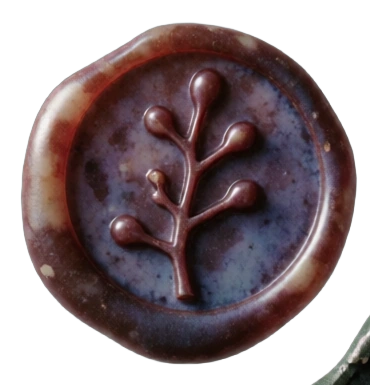
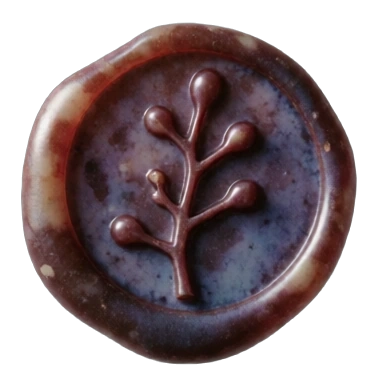
Remove neighbouring seal fragments from the red wax seal

Changed region(s): [[0.8324, 0.8104, 1.0, 1.0]]

diff --git a/index.html b/index.html
@@ -189,7 +189,7 @@
 </div>
 <div class="progress-artefact wide"><img width="895" height="194" alt="Five mineral progress markers" decoding="async" loading="lazy" src="materials/progress.webp"/></div><figure class="rainbow-wide wide"><img width="954" height="311" alt="Rainbow over a wooded river" decoding="async" loading="lazy" src="materials/landscape.webp"/></figure>
 </div>
-<div class="welcome-form-composition"><figure class="welcome-framed-angels"><img class="framed-art-image" alt="Angelic figures exchanging floating tarot cards" src="/assets/images/oct22/angels-with-cards.webp" width="1024" height="1024" loading="lazy"/><img class="physical-frame" alt="" src="/assets/images/oct22/botanical-frame.webp" width="625" height="610" loading="lazy"/></figure><figure class="welcome-sealed-cards"><img class="card-cluster" alt="Blank handmade cards with a brass clip" src="/assets/images/oct22/card-cluster.webp" width="406" height="481" loading="lazy"/><img class="seal-centre" alt="Red botanical wax seal" src="/assets/images/oct22/seal-red.webp" width="370" height="385" loading="lazy"/><img class="seal-side" alt="Gold and blue botanical seal" src="/assets/images/oct22/seal-gold.webp" width="365" height="365" loading="lazy"/></figure></div>
+<div class="welcome-form-composition"><figure class="welcome-framed-angels"><img class="framed-art-image" alt="Angelic figures exchanging floating tarot cards" src="/assets/images/oct22/angels-with-cards.webp" width="1024" height="1024" loading="lazy"/><img class="physical-frame" alt="" src="/assets/images/oct22/botanical-frame.webp" width="625" height="610" loading="lazy"/></figure><figure class="welcome-sealed-cards"><img class="card-cluster" alt="Blank handmade cards with a brass clip" src="/assets/images/oct22/card-cluster.webp" width="406" height="481" loading="lazy"/><img class="seal-centre" alt="Red botanical wax seal" src="/assets/images/oct22/seal-red.webp?v=clean2" width="370" height="385" loading="lazy"/><img class="seal-side" alt="Gold and blue botanical seal" src="/assets/images/oct22/seal-gold.webp" width="365" height="365" loading="lazy"/></figure></div>
 <div class="form-panel form-disclosure"><div class="form-body" id="arkhive-form">
 <div id="tally-mount"><iframe data-tally-src="https://tally.so/embed/GxWlQO?alignLeft=1&amp;hideTitle=1&amp;transparentBackground=1&amp;dynamicHeight=1" frameborder="0" scrolling="no" height="1100" loading="eager" src="https://tally.so/embed/GxWlQO?alignLeft=1&amp;hideTitle=1&amp;transparentBackground=1&amp;dynamicHeight=1" title="Cards and Stories — The Arkhive" width="100%"></iframe></div>
 </div></div>
